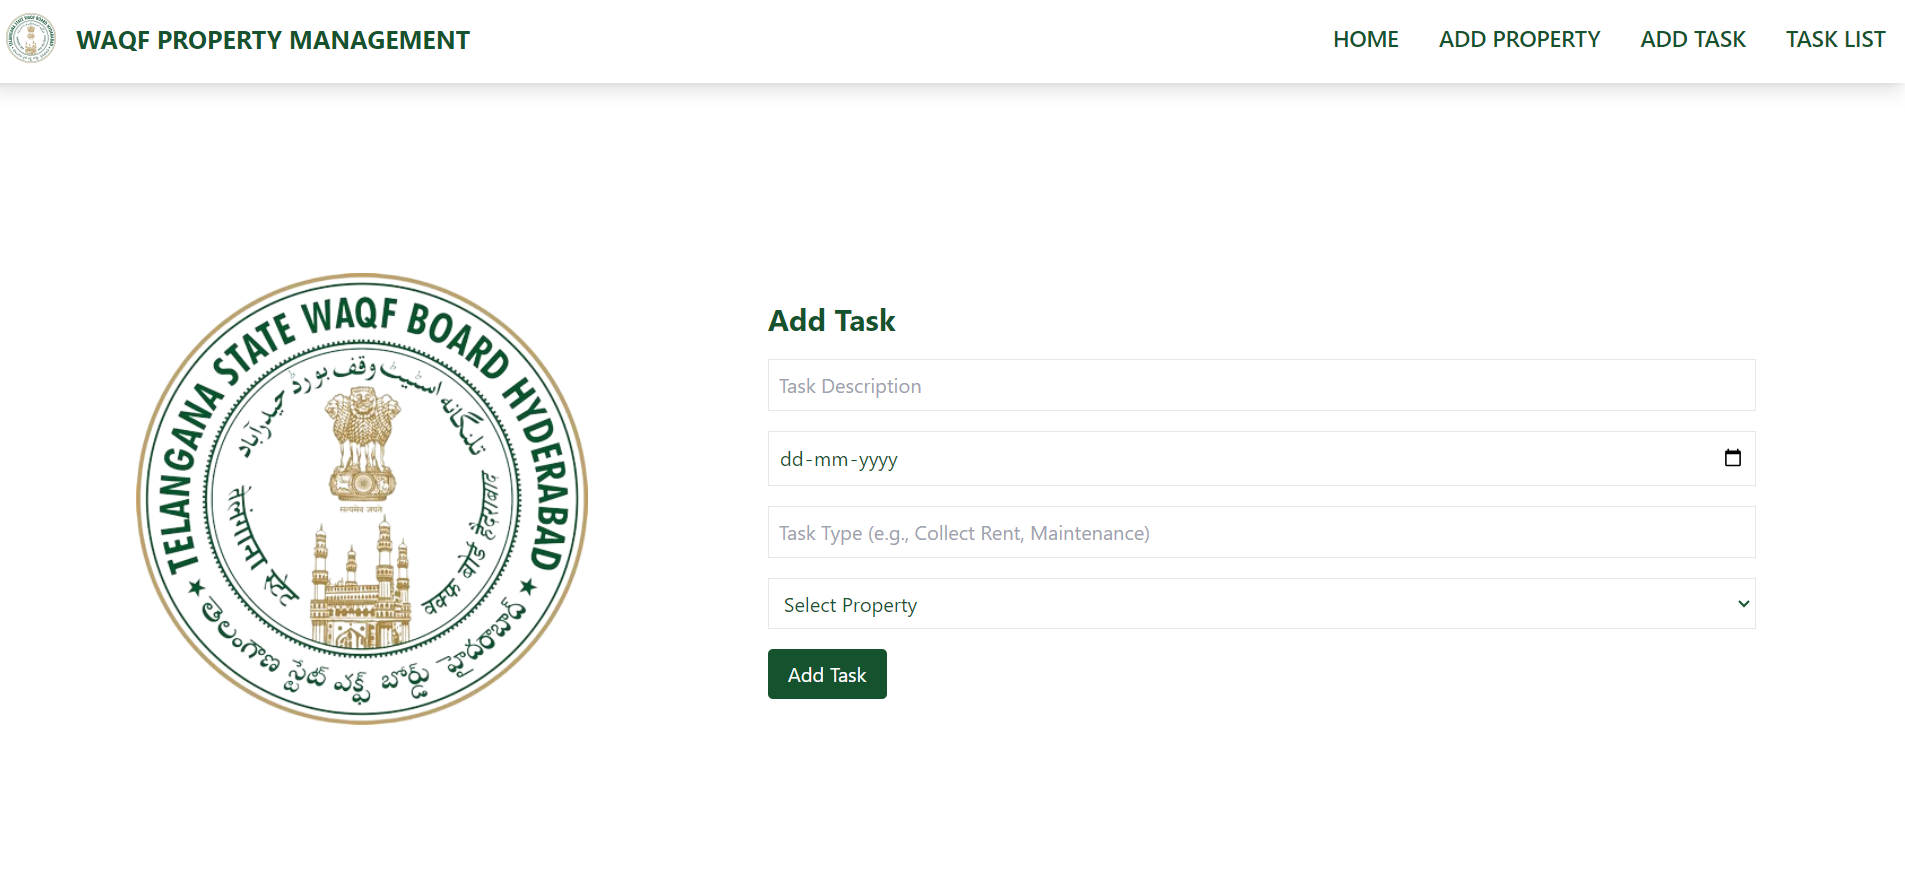
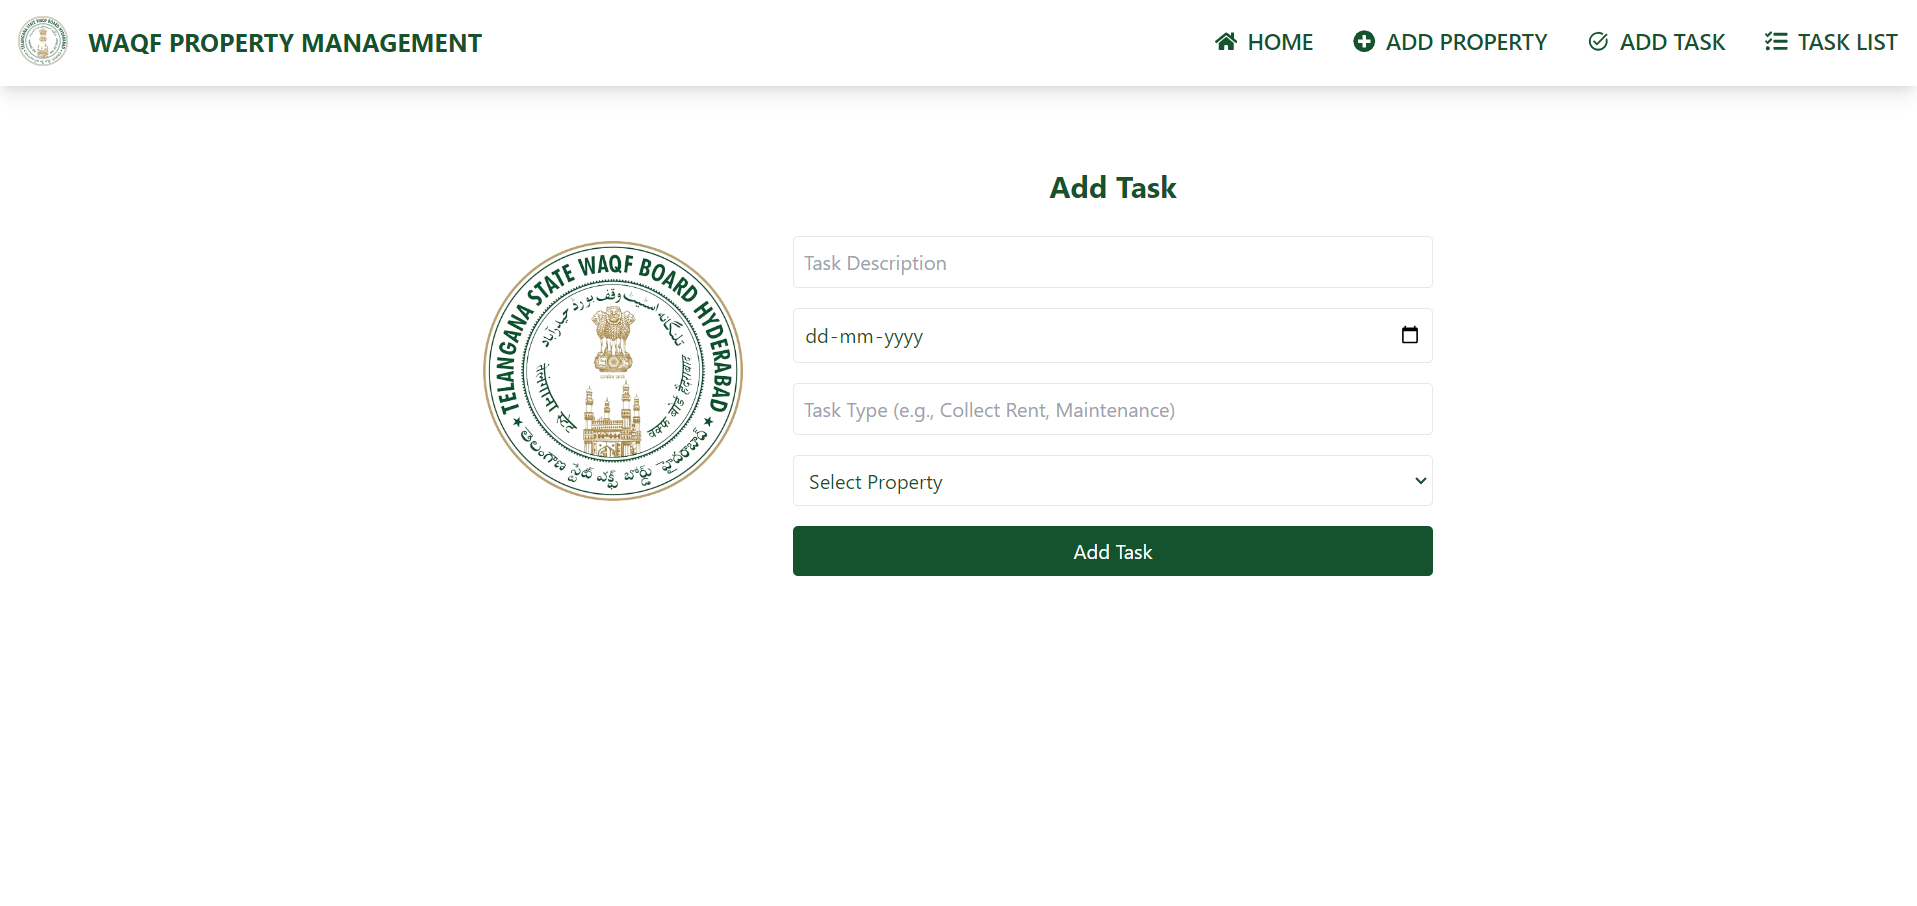
Responsiveness

diff --git a/Front-end/my-app/src/Components/TaskList.js b/Front-end/my-app/src/Components/TaskList.js
@@ -53,34 +53,33 @@ const TaskList = () => {
   });
 
   return (
-    <div className="max-w-7xl mx-auto mt-8">
-      <div className="flex justify-between items-center">
-        <h2 className="text-2xl font-bold mb-4">Task List</h2>
+    <div className="max-w-7xl mx-auto mt-8 px-4">
+      <div className="flex flex-col md:flex-row justify-between items-center mb-4">
+        <h2 className="text-2xl font-bold">Task List</h2>
         <img src={Logo} alt="logo" className="w-28" />
       </div>
       <p className="mb-4">
         <strong>Current Date:</strong> {currentDate}
       </p>
 
-      <div className="mb-4 flex space-x-4 font-bold">
+      <div className="mb-4 flex flex-wrap space-x-4 font-bold">
         {["All", "Pending", "In Progress", "Completed"].map((status) => (
           <button
             key={status}
             onClick={() => setFilterStatus(status)}
-            className={`px-4 py-2  bg-transparent border-b-2  rounded-none ${
+            className={`px-4 py-2 bg-transparent border-b-2 rounded-none ${
               filterStatus === status
                 ? "border-b-green-900 text-grey-900"
-                : " text-gray-200"
+                : "text-gray-200"
             }`}
           >
             {status}
           </button>
         ))}
       </div>
-      <div className="grid grid-cols-3 gap-4">
+      <div className="grid grid-cols-1 md:grid-cols-2 lg:grid-cols-3 gap-4">
         {filteredTasks.map((task) => {
           const isOverdue = new Date(task.dueDate) < todayDate;
-
           const formattedDueDate = format(new Date(task.dueDate), "dd-MM-yyyy");
 
           return (
@@ -88,9 +87,9 @@ const TaskList = () => {
               key={task._id}
               className={`border border-green-900 p-4 rounded-lg shadow-md shadow-green-200`}
             >
-              <div className="flex  justify-end ">
+              <div className="flex justify-end">
                 <div
-                  className={`p-1 rounded-md   text-center text-[10px] text-white  ${
+                  className={`p-1 rounded-md text-center text-[10px] text-white ${
                     isOverdue
                       ? "bg-red-600"
                       : task.status === "Pending"
@@ -100,21 +99,17 @@ const TaskList = () => {
                       : "bg-yellow-200"
                   }`}
                 >
-                  {task.status === "In Progress" ? (
-                    "Progress"
-                  ) : (
-                    <div>{task.status}</div>
-                  )}
+                  {task.status === "In Progress" ? "Progress" : task.status}
                 </div>
               </div>
-              <p>
-                <span className="font-bold">Description:</span>
+              <p className="text-sm">
+                <span className="font-bold">Description:</span>{" "}
                 {task.description}
               </p>
-              <p>
+              <p className="text-sm">
                 <span className="font-bold">Due Date:</span> {formattedDueDate}
-              </p>{" "}
-              <p>
+              </p>
+              <p className="text-sm">
                 <span className="font-bold">Status:</span>
                 <span
                   className={
@@ -126,14 +121,14 @@ const TaskList = () => {
                   {task.status}
                 </span>
               </p>
-              <p>
+              <p className="text-sm">
                 <span className="font-bold">Property:</span>
                 <span className="font-bold">{task.property.name}</span>
               </p>
-              <div className="mt-4">
+              <div className="mt-4 flex flex-col md:flex-row">
                 <button
                   onClick={() => markAsInProgress(task._id)}
-                  className="bg-white text-green-900 border border-green-900 py-1 px-2 rounded mr-2"
+                  className="bg-white text-green-900 border border-green-900 py-1 px-2 rounded mr-2 mb-2 md:mb-0"
                 >
                   Mark as In Progress
                 </button>

diff --git a/Front-end/my-app/src/Components/NavBar.js b/Front-end/my-app/src/Components/NavBar.js
@@ -1,46 +1,62 @@
+import React, { useState } from "react";
 import { Link, useNavigate } from "react-router-dom";
+import { FaHome, FaPlusCircle, FaTasks, FaBars } from "react-icons/fa";
+import { MdOutlineTaskAlt } from "react-icons/md";
 import Logo from "../Images/logo.png";
-
 const Navbar = () => {
   const navigate = useNavigate();
+  const [isOpen, setIsOpen] = useState(false);
+
   return (
     <nav className="bg-white text-green-900 p-4 shadow-lg sticky top-0 z-50">
-      {" "}
       <div className="container mx-auto flex justify-between items-center">
         <div
-          className="flex items-center  cursor-pointer"
+          className="flex items-center cursor-pointer"
           onClick={() => navigate("/")}
         >
           <img src={Logo} alt="Logo" className="h-10 w-10 mr-4" />
-          <h1 className="text-xl font-bold  text-green-900">
+          <h1 className="text-xl font-bold text-green-900">
             WAQF PROPERTY MANAGEMENT
           </h1>
         </div>
 
-        <div className="flex space-x-8">
+        <div className="md:hidden">
+          <button
+            onClick={() => setIsOpen(!isOpen)}
+            className="text-green-900 focus:outline-none"
+          >
+            <FaBars size={24} />
+          </button>
+        </div>
+
+        <div
+          className={`${
+            isOpen ? "block" : "hidden"
+          } md:flex md:space-x-8 md:items-center`}
+        >
           <Link
             to="/"
-            className="hover:text-gray-600 text-lg font-semibold transition-colors"
+            className="block hover:text-gray-600 text-lg font-semibold transition-colors flex items-center mt-4 md:mt-0"
           >
-            HOME
+            <FaHome className="mr-2" /> HOME
           </Link>
           <Link
             to="/add-property"
-            className="hover:text-gray-600 text-lg font-semibold transition-colors"
+            className="block hover:text-gray-600 text-lg font-semibold transition-colors flex items-center mt-4 md:mt-0"
           >
-            ADD PROPERTY
+            <FaPlusCircle className="mr-2" /> ADD PROPERTY
           </Link>
           <Link
             to="/add-task"
-            className="hover:text-gray-600 text-lg font-semibold transition-colors"
+            className="block hover:text-gray-600 text-lg font-semibold transition-colors flex items-center mt-4 md:mt-0"
           >
-            ADD TASK
+            <MdOutlineTaskAlt className="mr-2" /> ADD TASK
           </Link>
           <Link
             to="/task-list"
-            className="hover:text-gray-600 text-lg font-semibold transition-colors"
+            className="block hover:text-gray-600 text-lg font-semibold transition-colors flex items-center mt-4 md:mt-0"
           >
-            TASK LIST
+            <FaTasks className="mr-2" /> TASK LIST
           </Link>
         </div>
       </div>

diff --git a/Front-end/my-app/src/Components/AddTask.js b/Front-end/my-app/src/Components/AddTask.js
@@ -25,7 +25,7 @@ const AddTask = () => {
   const handleSubmit = async (e) => {
     e.preventDefault();
     try {
-      const res = await axios.post("http://localhost:3000/api/task", {
+      await axios.post("http://localhost:3000/api/task", {
         description,
         dueDate,
         taskType,
@@ -53,38 +53,38 @@ const AddTask = () => {
   };
 
   return (
-    <div className=" mt-8 flex items-center justify-center gap-36 p-24">
-      <div>
-        <img src={Logo} alt="logo" />
+    <div className="flex flex-col lg:flex-row items-center justify-center gap-10 p-4 md:p-10">
+      <div className="mb-6 lg:mb-0">
+        <img src={Logo} alt="logo" className="w-40 h-40 lg:w-52 lg:h-52" />
       </div>
 
-      <div>
-        <h2 className="text-2xl font-bold mb-4">Add Task</h2>
+      <div className="max-w-lg w-full">
+        <h2 className="text-2xl font-bold mb-6 text-center ">Add Task</h2>
         <form onSubmit={handleSubmit} className="space-y-4">
           <input
             type="text"
             value={description}
             onChange={(e) => setDescription(e.target.value)}
             placeholder="Task Description"
-            className="border p-2 w-full"
+            className="border p-2 w-full rounded"
           />
           <input
             type="date"
             value={dueDate}
             onChange={(e) => setDueDate(e.target.value)}
-            className="border p-2 w-full"
+            className="border p-2 w-full rounded"
           />
           <input
             type="text"
             value={taskType}
             onChange={(e) => setTaskType(e.target.value)}
             placeholder="Task Type (e.g., Collect Rent, Maintenance)"
-            className="border p-2 w-full"
+            className="border p-2 w-full rounded"
           />
           <select
             value={propertyId}
             onChange={(e) => setPropertyId(e.target.value)}
-            className="border p-2 w-full"
+            className="border p-2 w-full rounded"
           >
             <option value="">Select Property</option>
             {properties.map((property) => (
@@ -95,7 +95,7 @@ const AddTask = () => {
           </select>
           <button
             type="submit"
-            className="bg-green-900 text-white py-2 px-4 rounded"
+            className="bg-green-900 text-white py-2 px-4 rounded w-full"
           >
             Add Task
           </button>

diff --git a/Front-end/my-app/src/Components/AddProperty.js b/Front-end/my-app/src/Components/AddProperty.js
@@ -36,35 +36,36 @@ const AddProperty = () => {
   };
 
   return (
-    <div className=" mt-8 flex items-center justify-center gap-36 p-20">
-      <img src={Logo} alt="logo" />
-      <div>
-        <h2 className="text-2xl font-bold mb-4 ">Add Property</h2>
+    <div className="mt-8  flex flex-col md:flex-row items-center justify-center gap-36 p-6 md:p-20">
+      <img src={Logo} alt="logo" className="w-32 md:w-48 mb-6 md:mb-0" />
+
+      <div className="w-full max-w-md">
+        <h2 className="text-2xl font-bold mb-4 text-center">Add Property</h2>
         <form onSubmit={handleSubmit} className="space-y-4">
           <input
             type="text"
             value={name}
             onChange={(e) => setName(e.target.value)}
             placeholder="Property Name"
-            className="border p-2 w-full"
+            className="border p-2 w-full rounded"
           />
           <input
             type="text"
             value={location}
             onChange={(e) => setLocation(e.target.value)}
             placeholder="Location"
-            className="border p-2 w-full"
+            className="border p-2 w-full rounded"
           />
           <input
             type="text"
             value={type}
             onChange={(e) => setType(e.target.value)}
             placeholder="Type (e.g., Mosque, School)"
-            className="border p-2 w-full"
+            className="border p-2 w-full rounded"
           />
           <button
             type="submit"
-            className="bg-green-900 text-white py-2 px-4 rounded"
+            className="bg-green-900 text-white py-2 px-4 rounded w-full"
           >
             Add Property
           </button>
